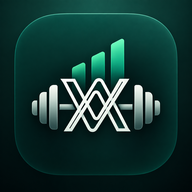
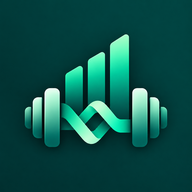
Add files via upload

diff --git a/index.html b/index.html
@@ -8,61 +8,63 @@
 <meta name="mobile-web-app-capable" content="yes">
 <meta name="apple-mobile-web-app-status-bar-style" content="black-translucent">
 <meta name="apple-mobile-web-app-title" content="Тренування">
-<meta name="theme-color" content="#121212">
[2 lines of base64/hex data omitted]
+<meta name="theme-color" content="#04211f">
[1 lines of base64/hex data omitted]
 <link rel="icon" href="icon-192.png">
 <link rel="manifest" href="manifest.json">
 </head>
 <body>
 <style>
   :root {
-    --surface-1: #242424;
-    --surface-2: #1c1c1c;
-    --text-primary: #f0f0f0;
-    --text-secondary: #a0a0a0;
-    --border: #333;
-    --border-strong: #444;
+    --surface-1: #103430;
+    --surface-2: #0b2622;
+    --text-primary: #eafaf4;
+    --text-secondary: #7fa89d;
+    --border: #1c3c36;
+    --border-strong: #2a5148;
     --text-danger: #ff6b6b;
-    --text-success: #4caf7d;
+    --text-success: #34d399;
+    --accent: #17c98f;
+    --accent-text: #04211f;
   }
-  body { margin: 0; background: #121212; color: #f0f0f0; }
-  .wj-btn { background: transparent; border: 0.5px solid var(--border-strong, #ccc); border-radius: 8px; padding: 8px 14px; font-size: 14px; cursor: pointer; color: var(--text-primary, #1a1a1a); }
+  body { margin: 0; background: #04211f; color: #eafaf4; }
+  .wj-btn { background: transparent; border: 0.5px solid var(--border-strong, #ccc); border-radius: 20px; padding: 8px 16px; font-size: 14px; cursor: pointer; color: var(--text-primary, #1a1a1a); transition: background 0.15s; }
   .wj-btn:hover { background: var(--surface-1, #f4f4f2); }
-  .wj-btn:active { transform: scale(0.98); }
+  .wj-btn:active { transform: scale(0.97); }
   .wj-btn:disabled { opacity: 0.3; cursor: default; }
   .wj-btn:disabled:active { transform: none; }
-  .wj-btn-primary { background: #378ADD; color: #fff; border: none; }
+  .wj-btn-primary { background: var(--accent); color: var(--accent-text); border: none; font-weight: 500; }
   .wj-btn-danger { background: #ff6b6b; border: 1px solid #ff6b6b; color: #fff; }
   .wj-btn-danger:hover { background: #ff5252; }
-  .wj-btn-success { background: #2e9e5b; border: 1px solid #2e9e5b; color: #fff; }
-  .wj-btn-success:hover { background: #278a4f; }
-  .wj-input, .wj-select { height: 36px; border: 0.5px solid var(--border-strong, #ccc); border-radius: 8px; padding: 0 10px; font-size: 14px; width: 100%; box-sizing: border-box; background: var(--surface-2, #fff); color: var(--text-primary, #1a1a1a); }
-  .wj-card { background: var(--surface-2, #fff); border: 0.5px solid var(--border, #e5e5e0); border-radius: 12px; padding: 1rem 1.25rem; }
+  .wj-btn-success { background: var(--accent); border: 1px solid var(--accent); color: var(--accent-text); font-weight: 500; }
+  .wj-btn-success:hover { background: #14b47f; }
+  .wj-input, .wj-select { height: 38px; border: 0.5px solid var(--border-strong, #ccc); border-radius: 14px; padding: 0 12px; font-size: 14px; width: 100%; box-sizing: border-box; background: var(--surface-2, #fff); color: var(--text-primary, #1a1a1a); }
+  .wj-card { background: var(--surface-2, #fff); border: 0.5px solid var(--border, #e5e5e0); border-radius: 16px; padding: 1rem 1.25rem; }
   .wj-label { font-size: 12px; color: var(--text-secondary, #666); margin-bottom: 4px; display: block; }
   .wj-row { display: flex; gap: 8px; }
   .wj-tabs { display: flex; gap: 6px; margin-bottom: 1rem; flex-wrap: wrap; }
-  .wj-tab { flex: 1; min-width: 70px; text-align: center; padding: 8px 4px; border-radius: 8px; font-size: 13px; cursor: pointer; border: 0.5px solid var(--border-strong, #ccc); }
-  .wj-tab.active { background: #378ADD; color: #fff; border-color: #378ADD; }
+  .wj-tab { flex: 1; min-width: 70px; text-align: center; padding: 9px 4px; border-radius: 20px; font-size: 13px; cursor: pointer; border: 0.5px solid var(--border-strong, #ccc); transition: background 0.15s; }
+  .wj-tab.active { background: var(--accent); color: var(--accent-text); border-color: var(--accent); font-weight: 500; }
   .ex-row { display: grid; grid-template-columns: 1fr; gap: 6px; padding: 10px 0; border-bottom: 0.5px solid var(--border, #e5e5e0); }
   .ex-row:last-child { border-bottom: none; }
   .ex-grid { display: grid; grid-template-columns: repeat(3, minmax(0,1fr)); gap: 6px; }
   .ex-mini-label { font-size: 11px; color: var(--text-secondary, #666); }
-  .color-swatch { width: 32px; height: 32px; border-radius: 50%; cursor: pointer; border: 2px solid transparent; box-sizing: border-box; }
-  .color-swatch.selected { border-color: #fff; box-shadow: 0 0 0 2px #378ADD; }
-  .ex-field-sets { background: rgba(46,158,91,0.12); border-radius: 8px; padding: 6px; }
+  .color-swatch { width: 32px; height: 32px; border-radius: 50%; cursor: pointer; border: 2px solid transparent; box-sizing: border-box; box-shadow: 0 1px 3px rgba(0,0,0,0.35); transition: transform 0.15s; }
+  .color-swatch:active { transform: scale(0.92); }
+  .color-swatch.selected { border-color: #fff; box-shadow: 0 0 0 2px var(--accent), 0 1px 3px rgba(0,0,0,0.35); }
+  .ex-field-sets { background: rgba(46,158,91,0.14); border-radius: 12px; padding: 6px 8px; }
   .ex-field-sets .ex-mini-label { color: #2e9e5b; font-weight: 500; }
-  .ex-field-sets input { border-color: rgba(46,158,91,0.4); }
-  .ex-field-reps { background: rgba(160,102,204,0.12); border-radius: 8px; padding: 6px; }
+  .ex-field-sets input { border-color: rgba(46,158,91,0.4); border-radius: 10px; }
+  .ex-field-reps { background: rgba(160,102,204,0.14); border-radius: 12px; padding: 6px 8px; }
   .ex-field-reps .ex-mini-label { color: #a066cc; font-weight: 500; }
-  .ex-field-reps input { border-color: rgba(160,102,204,0.4); }
-  .ex-field-weight { background: rgba(55,138,221,0.12); border-radius: 8px; padding: 6px; }
+  .ex-field-reps input { border-color: rgba(160,102,204,0.4); border-radius: 10px; }
+  .ex-field-weight { background: rgba(55,138,221,0.14); border-radius: 12px; padding: 6px 8px; }
   .ex-field-weight .ex-mini-label { color: #378ADD; font-weight: 500; }
-  .ex-field-weight input { border-color: rgba(55,138,221,0.4); }
-  .cal-cell { aspect-ratio: 1 / 1; display:flex; flex-direction: column; align-items:center; justify-content:center; border-radius: 8px; font-size: 12px; cursor: default; position: relative; color: var(--text-primary,#1a1a1a); background: var(--surface-1,#f4f4f2); }
+  .ex-field-weight input { border-color: rgba(55,138,221,0.4); border-radius: 10px; }
+  .cal-cell { aspect-ratio: 1 / 1; display:flex; flex-direction: column; align-items:center; justify-content:center; border-radius: 12px; font-size: 12px; cursor: default; position: relative; color: var(--text-primary,#1a1a1a); background: var(--surface-1,#f4f4f2); }
   .cal-cell.empty { background: transparent; }
-  .cal-cell.trained { color: #fff; cursor: pointer; font-weight: 500; gap: 1px; }
-  .cal-cell.selected { outline: 2px solid #378ADD; outline-offset: 1px; }
+  .cal-cell.trained { color: #fff; cursor: pointer; font-weight: 500; gap: 1px; box-shadow: 0 1px 4px rgba(0,0,0,0.3); }
+  .cal-cell.selected { outline: 2px solid var(--accent); outline-offset: 1px; }
   .cal-cell.today-marker::after { content:''; position:absolute; bottom:2px; width:4px; height:4px; border-radius:50%; background: currentColor; opacity:0.7; }
   .cal-cell-day { line-height: 1; }
   .cal-cell-volume { font-size: 8.5px; font-weight: 400; line-height: 1; opacity: 0.9; }
@@ -76,14 +78,16 @@
   .ex-progress-count { width: 36px; flex-shrink: 0; text-align: center; }
   .ex-progress-count-num { font-size: 19px; font-weight: 700; line-height: 1; }
   .ex-progress-count-label { font-size: 9px; color: var(--text-secondary, #666); margin-top: 1px; }
-  .ex-progress-legend { display:flex; gap:12px; margin-top: 10px; font-size: 10px; font-weight: 500; }
+  .ex-progress-legend { display:flex; gap:10px; margin-top: 10px; font-size: 10px; font-weight: 500; flex-wrap: wrap; }
+  .ex-progress-legend span { display: inline-flex; align-items: center; gap: 4px; }
+  .ex-progress-legend .dot { width: 8px; height: 8px; border-radius: 50%; display: inline-block; }
   .ex-progress-chart-combo { position: relative; height: 64px; margin-top: 4px; }
-  .period-btn.active { background: #378ADD; color: #fff; border-color: #378ADD; }
-  #wj-toast { position: fixed; left: 50%; bottom: 24px; transform: translateX(-50%) translateY(20px); background: #2e9e5b; color: #fff; padding: 10px 16px; border-radius: 10px; font-size: 13px; max-width: 90vw; text-align: center; opacity: 0; pointer-events: none; transition: opacity 0.2s, transform 0.2s; z-index: 9999; box-shadow: 0 4px 14px rgba(0,0,0,0.3); }
+  .period-btn.active { background: var(--accent); color: var(--accent-text); border-color: var(--accent); font-weight: 500; }
+  #wj-toast { position: fixed; left: 50%; bottom: 24px; transform: translateX(-50%) translateY(20px); background: var(--accent); color: var(--accent-text); padding: 10px 18px; border-radius: 20px; font-size: 13px; font-weight: 500; max-width: 90vw; text-align: center; opacity: 0; pointer-events: none; transition: opacity 0.2s, transform 0.2s; z-index: 9999; box-shadow: 0 4px 14px rgba(0,0,0,0.35); }
   #wj-toast.show { opacity: 1; transform: translateX(-50%) translateY(0); }
   #confirm-modal-overlay { position: fixed; inset: 0; background: rgba(0,0,0,0.6); display: none; align-items: center; justify-content: center; z-index: 10000; padding: 20px; box-sizing: border-box; }
   #confirm-modal-overlay.show { display: flex; }
-  #confirm-modal-box { background: var(--surface-2, #1c1c1c); border-radius: 12px; padding: 1.25rem; max-width: 360px; width: 100%; }
+  #confirm-modal-box { background: var(--surface-2, #1c1c1c); border-radius: 18px; padding: 1.25rem; max-width: 360px; width: 100%; }
   #confirm-modal-text { font-size: 14px; margin: 0 0 1rem; color: var(--text-primary, #f0f0f0); }
 </style>
 <div id="wj-toast"></div>
@@ -496,7 +500,7 @@
             <input class="wj-input" type="number" min="0" step="0.5" inputmode="decimal" data-field="weight" data-i="${i}" value="${ex.weight}" />
           </div>
         </div>
-        <button class="wj-btn wj-btn-danger" data-del="${i}" style="align-self:flex-end; padding:6px 10px;" aria-label="Видалити вправу">✕ Видалити</button>
+        <button class="wj-btn wj-btn-danger" data-del="${i}" style="justify-self: end; width: auto; padding: 5px 12px; font-size: 12px;" aria-label="Видалити вправу">✕ Видалити</button>
       </div>
     `).join('');
 
@@ -746,14 +750,14 @@
     const rows = notReady.map(s => `
       <div style="display:flex; justify-content:space-between; padding: 6px 0;">
         <span style="font-size:13px;">${escapeHtml(s.group)}</span>
-        <span style="font-size:13px; color:#c0821a;">ще ~${s.status.remainingHours} год</span>
+        <span style="font-size:13px; color:#ff6b6b;">ще ~${s.status.remainingHours} год</span>
       </div>
     `).join('');
 
     banner.innerHTML = `
-      <div class="wj-card" style="border-color: rgba(192,130,26,0.4);">
+      <div class="wj-card" style="border-color: rgba(255,107,107,0.4);">
         <div style="display:flex; align-items:center; gap:8px; margin-bottom: 4px;">
-          <span style="color:#c0821a; font-size:18px;">⚠</span>
+          <span style="color:#ff6b6b; font-size:18px;">⚠</span>
           <span style="font-size:13px; font-weight:500;">Деякі мʼязи ще відновлюються</span>
         </div>
         ${rows}
@@ -949,7 +953,7 @@
     const legend = document.getElementById('cal-legend');
     legend.innerHTML = Object.entries(colorMap).map(([day, color]) => `
       <div style="display:flex; align-items:center; gap:6px; font-size:12px; color: var(--text-secondary,#666);">
-        <span style="width:10px; height:10px; border-radius:3px; background:${color}; display:inline-block;"></span>${escapeHtml(day)}
+        <span style="width:10px; height:10px; border-radius:50%; background:${color}; display:inline-block; box-shadow: 0 1px 2px rgba(0,0,0,0.3);"></span>${escapeHtml(day)}
       </div>
     `).join('');
 
@@ -1061,10 +1065,10 @@
 
     container.innerHTML = days.map(day => {
       const count = datesByDay[day] ? datesByDay[day].size : 0;
-      const color = colorMap[day] || '#378ADD';
+      const color = colorMap[day] || '#17c98f';
       const id = slugify(day);
       return `
-        <div style="border-radius: 10px; padding: 12px; background: ${color}1a; border: 1px solid ${color}55;">
+        <div style="border-radius: 14px; padding: 12px; background: ${color}1a; border: 1px solid ${color}55;">
           <div style="font-size:12px; color: var(--text-secondary,#666); margin-bottom:4px;">${escapeHtml(day)}</div>
           <div style="display:flex; align-items:baseline; gap:4px; margin-bottom:6px;">
             <span style="font-size:26px; font-weight:700; color:${color};">${count}</span>
@@ -1077,7 +1081,7 @@
 
     days.forEach(day => {
       const id = slugify(day);
-      const color = colorMap[day] || '#378ADD';
+      const color = colorMap[day] || '#17c98f';
       const volMap = volumeByDayDate[day] || {};
       const sortedDates = Object.keys(volMap).sort();
       const canvas = document.getElementById('daycount-chart-'+id);
@@ -1142,10 +1146,10 @@
             <div class="ex-progress-count" id="count-${id}"></div>
           </div>
           <div class="ex-progress-legend">
-            <span style="color:#e0a030;">● Тоннаж</span>
-            <span style="color:#378ADD;">● Вага</span>
-            <span style="color:#2e9e5b;">● Підходи</span>
-            <span style="color:#a066cc;">● Повтори</span>
+            <span><span class="dot" style="background:#e0a030;"></span>Тоннаж</span>
+            <span><span class="dot" style="background:#378ADD;"></span>Вага</span>
+            <span><span class="dot" style="background:#2e9e5b;"></span>Підходи</span>
+            <span><span class="dot" style="background:#a066cc;"></span>Повтори</span>
           </div>
           <div class="ex-progress-chart-combo"><canvas id="chart-combo-${id}"></canvas></div>
         </div>
@@ -1173,10 +1177,12 @@
               borderColor: '#e0a030',
               backgroundColor: '#e0a030',
               pointBackgroundColor: '#e0a030',
-              pointBorderColor: '#e0a030',
+              pointBorderColor: '#0b2622',
+              pointBorderWidth: 1.5,
               tension: 0.3,
-              pointRadius: 3,
-              pointHoverRadius: 5,
+              pointRadius: 3.5,
+              pointHoverRadius: 5.5,
+              pointHoverBorderWidth: 2,
               borderWidth: 2,
               borderDash: [4, 3]
             },
@@ -1186,10 +1192,12 @@
               borderColor: '#378ADD',
               backgroundColor: '#378ADD',
               pointBackgroundColor: '#378ADD',
-              pointBorderColor: '#378ADD',
+              pointBorderColor: '#0b2622',
+              pointBorderWidth: 1.5,
               tension: 0.3,
-              pointRadius: 3,
-              pointHoverRadius: 5,
+              pointRadius: 3.5,
+              pointHoverRadius: 5.5,
+              pointHoverBorderWidth: 2,
               borderWidth: 2
             },
             {
@@ -1198,10 +1206,12 @@
               borderColor: '#2e9e5b',
               backgroundColor: '#2e9e5b',
               pointBackgroundColor: '#2e9e5b',
-              pointBorderColor: '#2e9e5b',
+              pointBorderColor: '#0b2622',
+              pointBorderWidth: 1.5,
               tension: 0.3,
-              pointRadius: 3,
-              pointHoverRadius: 5,
+              pointRadius: 3.5,
+              pointHoverRadius: 5.5,
+              pointHoverBorderWidth: 2,
               borderWidth: 2
             },
             {
@@ -1210,10 +1220,12 @@
               borderColor: '#a066cc',
               backgroundColor: '#a066cc',
               pointBackgroundColor: '#a066cc',
-              pointBorderColor: '#a066cc',
+              pointBorderColor: '#0b2622',
+              pointBorderWidth: 1.5,
               tension: 0.3,
-              pointRadius: 3,
-              pointHoverRadius: 5,
+              pointRadius: 3.5,
+              pointHoverRadius: 5.5,
+              pointHoverBorderWidth: 2,
               borderWidth: 2
             }
           ]
